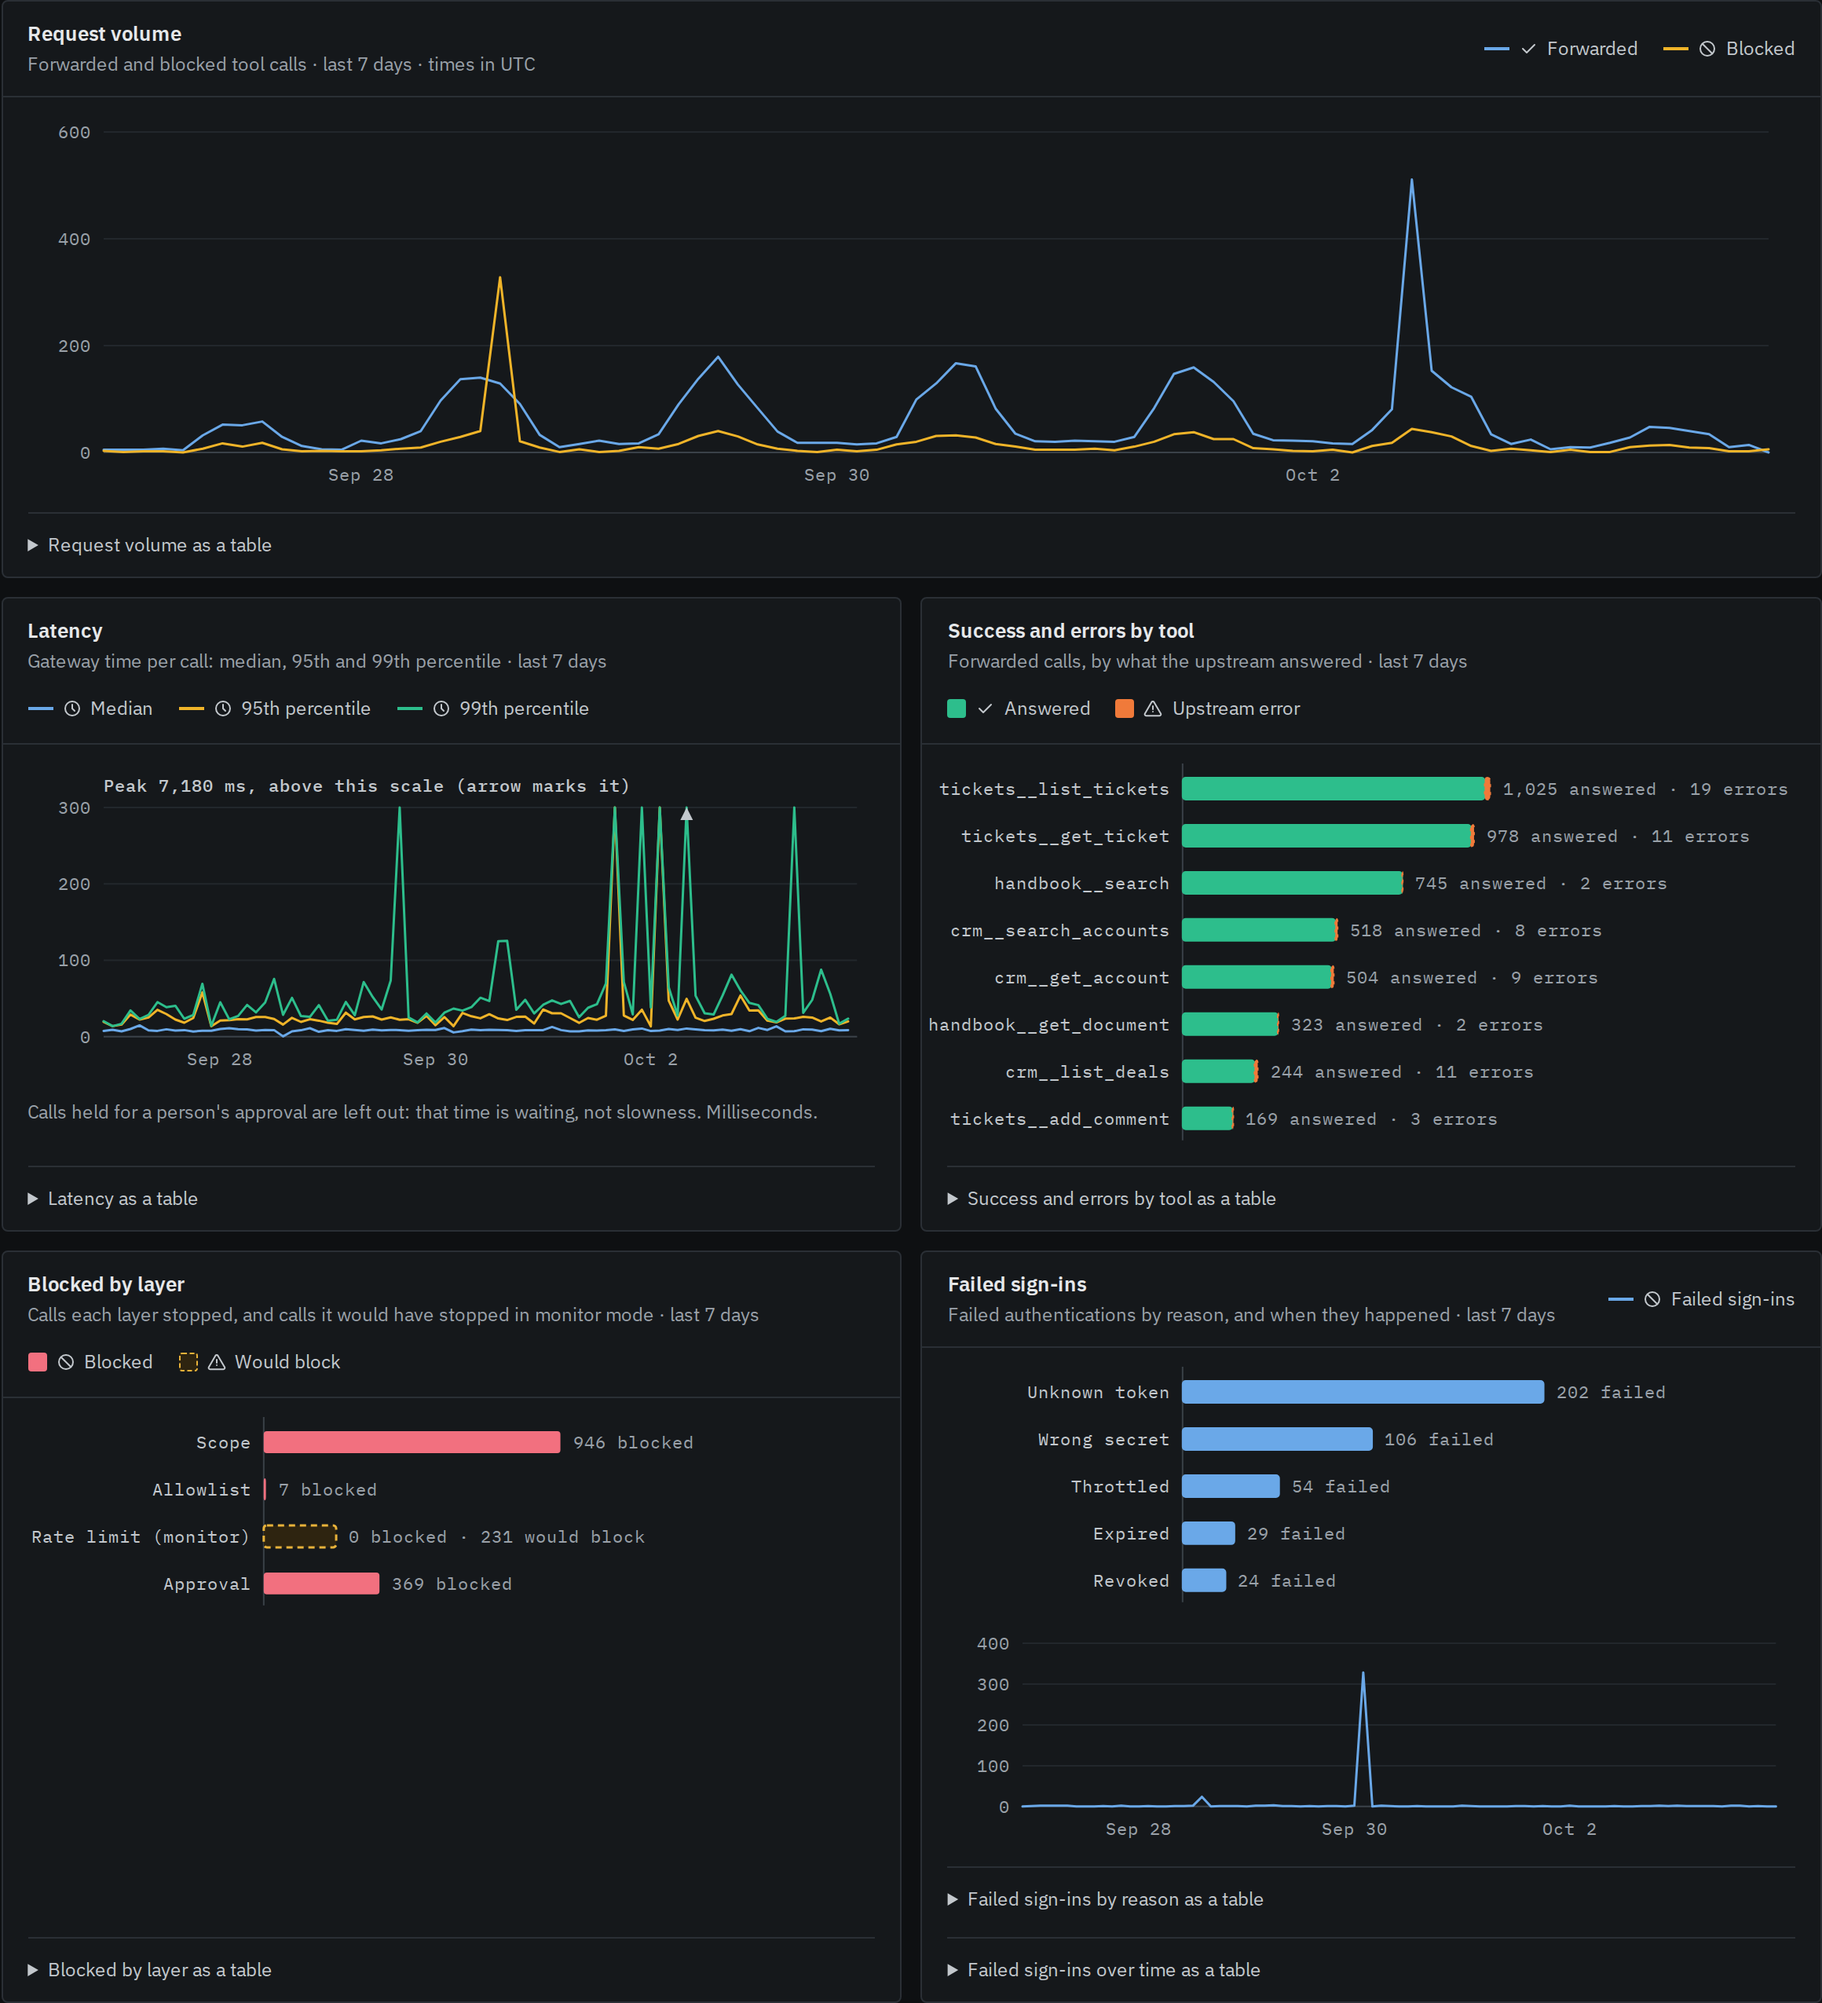
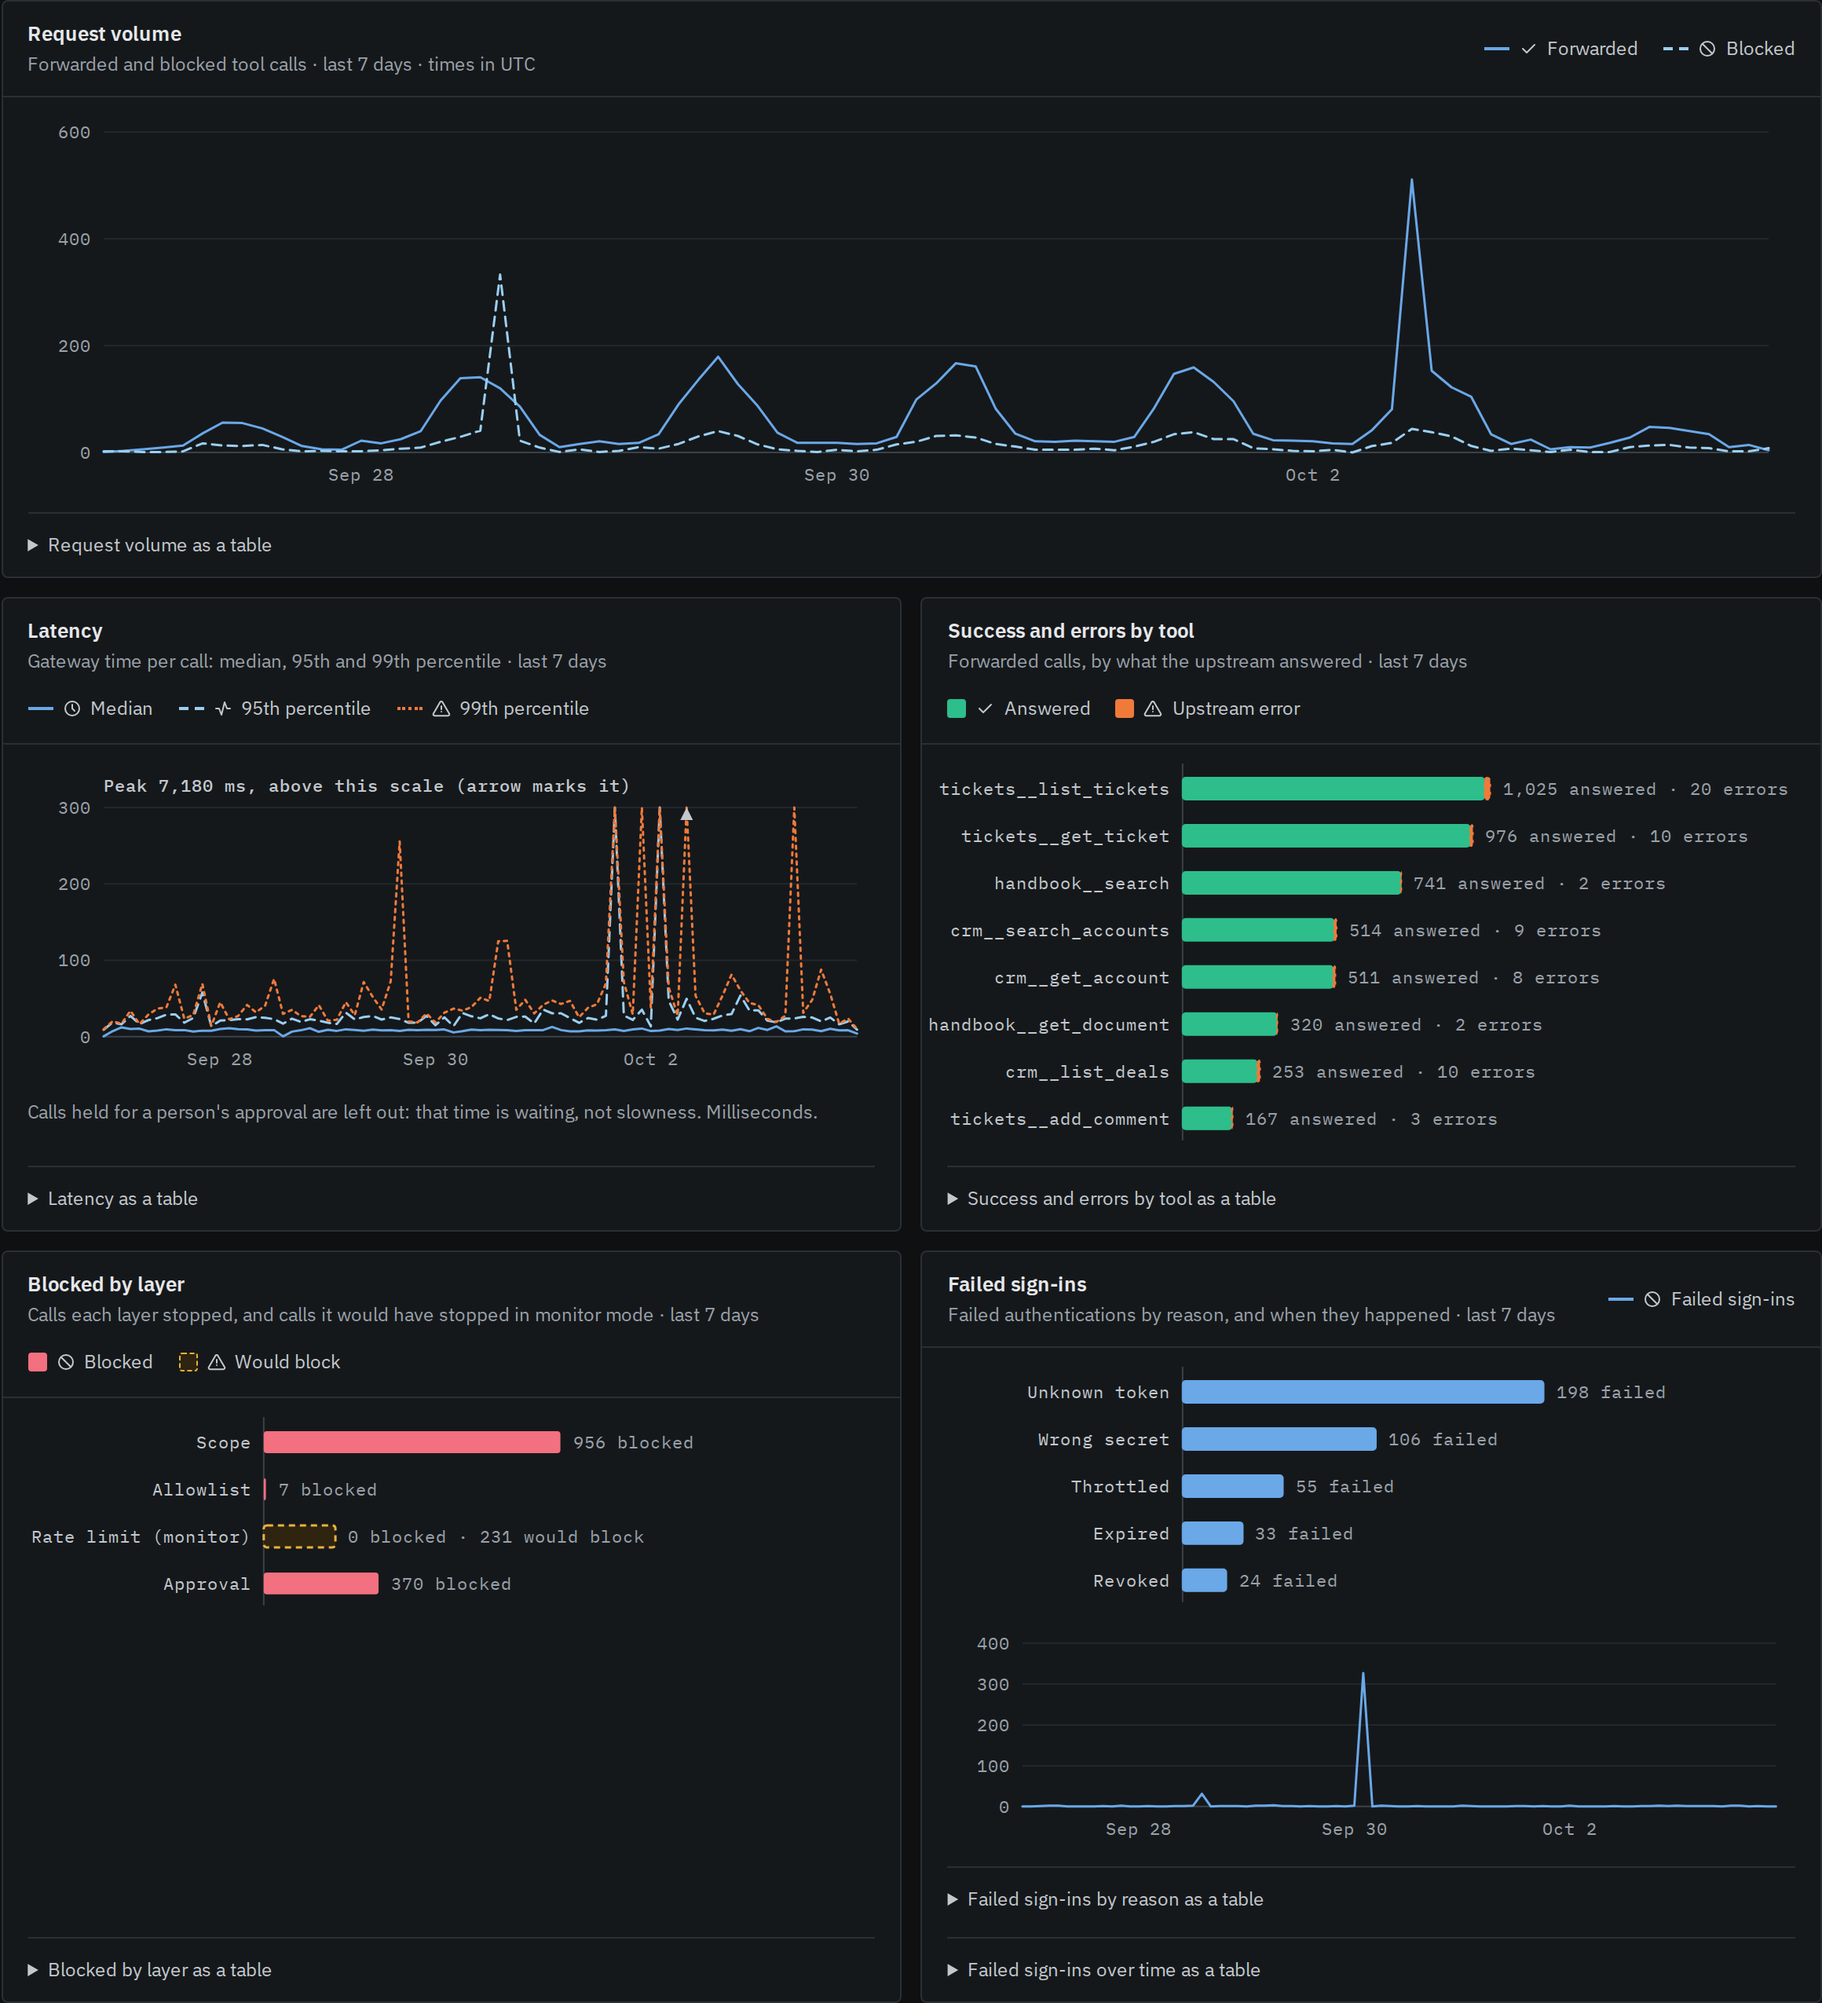
Make the seed's counts independent of the day it is run
The anchor is now the newest 21:57 UTC and the two quiet days are counted back
from it, not taken from the calendar's weekend, so the same seed gives the same
counts and shapes on any day.

diff --git a/scripts/seed_dashboard_demo.py b/scripts/seed_dashboard_demo.py
@@ -7,7 +7,7 @@ Two parts, both safe to read before running:
 
 1. A backfill of about seven days of telemetry (requests, layer verdicts, failed logins, the
    pipeline configuration), written through the telemetry writer role, the way the gateway writes
-   it. It has a daily rhythm (quiet nights, busy afternoons, quiet weekends) and four episodes: a
+   it. It has a daily rhythm (quiet nights, busy afternoons, two quiet days) and four episodes: a
    client probing tools it was not given, a spray of invalid tokens, a burst that a layer in
    monitor mode would have limited, and a slow upstream. Everything is made up (Harborline Supply
    Co. is fictional). The same seed and anchor give the same rows: `build_backfill` is pure and
@@ -142,10 +142,25 @@ def _poisson(rng: random.Random, lam: float) -> int:
         k += 1
 
 
-def profile(hour: float, weekday: int) -> float:
-    """Load over a day: quiet nights, a morning ramp, an afternoon peak; weekends a third."""
+QUIET_DAYS_BACK = (
+    3,
+    4,
+)  # the two quiet days, counted back from the anchor's day: a made-up weekend
+
+
+def default_anchor(now: datetime) -> datetime:
+    """The newest 21:57 UTC at or before `now`.
+
+    Always the same time of day, and the quiet days are counted from it and not from the calendar,
+    so the same seed gives the same counts and shapes whatever day and hour the seed is run."""
+    anchor = now.astimezone(UTC).replace(hour=21, minute=57, second=0, microsecond=0)
+    return anchor if anchor <= now else anchor - timedelta(days=1)
+
+
+def profile(hour: float, quiet: bool) -> float:
+    """Load over a day: quiet nights, a morning ramp, an afternoon peak; quiet days a third."""
     day = max(0.0, math.sin(math.pi * (hour - 6.0) / 14.0)) ** 1.5 if 6.0 <= hour <= 20.0 else 0.0
-    return (0.12 + 0.88 * day) * (0.35 if weekday >= 5 else 1.0)
+    return (0.12 + 0.88 * day) * (0.35 if quiet else 1.0)
 
 
 def _choose(rng: random.Random, weighted: list[tuple[str, float]]) -> str:
@@ -212,7 +227,8 @@ def build_backfill(
     start = anchor - timedelta(days=days)
     for minute in range(days * 1440):
         moment = start + timedelta(minutes=minute)
-        rate = 1.6 * profile(moment.hour + moment.minute / 60, moment.weekday())
+        quiet = (anchor.date() - moment.date()).days in QUIET_DAYS_BACK
+        rate = 1.6 * profile(moment.hour + moment.minute / 60, quiet)
         calls = _poisson(rng, rate)
         extra: list[str] = []
         if _within(moment, eps["probing"]):
@@ -736,7 +752,7 @@ def main(argv: list[str] | None = None) -> None:
     )
     args = parser.parse_args(argv)
 
-    anchor = datetime.now(UTC).replace(minute=0, second=0, microsecond=0) - timedelta(minutes=3)
+    anchor = default_anchor(datetime.now(UTC))
     backfill = build_backfill(args.seed, anchor, args.days, args.hold_ms)
     print(
         f"backfill (seed {args.seed}, {args.days} days to {anchor:%Y-%m-%d %H:%M} UTC):"

diff --git a/gateway/tests/test_seed_dashboard_demo.py b/gateway/tests/test_seed_dashboard_demo.py
@@ -31,7 +31,7 @@ def _load() -> ModuleType:
 
 
 seed = _load()
-ANCHOR = datetime(2026, 10, 3, 11, 57, tzinfo=UTC)
+ANCHOR = datetime(2026, 10, 3, 21, 57, tzinfo=UTC)
 
 
 @pytest.fixture(scope="module")
@@ -49,22 +49,35 @@ def test_the_same_seed_and_anchor_give_the_same_rows_and_another_seed_does_not(w
     assert seed.summary(week)["tool_calls"] != seed.summary(other)["tool_calls"]
 
 
-def test_the_week_has_a_daily_rhythm_and_a_quiet_weekend(week: Any) -> None:
+def test_the_counts_and_shapes_do_not_depend_on_the_day_the_seed_is_run(week: Any) -> None:
+    # The anchor is the newest 21:57 UTC: another day is the same week moved, so the same numbers.
+    for now in (
+        datetime(2026, 10, 3, 22, 30, tzinfo=UTC),
+        datetime(2026, 10, 9, 3, 5, tzinfo=UTC),  # a different weekday, before that day's 21:57
+        datetime(2026, 11, 17, 21, 57, tzinfo=UTC),
+    ):
+        moved = seed.build_backfill(20261003, seed.default_anchor(now))
+        assert seed.summary(moved) == seed.summary(week)
+        assert seed.default_anchor(now) <= now
+        assert now - seed.default_anchor(now) < timedelta(days=1)
+
+
+def test_the_week_has_a_daily_rhythm_and_two_quiet_days(week: Any) -> None:
     by_hour: Counter[int] = Counter()
     by_day_kind: Counter[str] = Counter()
     for row in week.requests:
         if row["kind"] != "tool_call":
             continue
         by_hour[row["ts"].hour] += 1
-        by_day_kind["weekend" if row["ts"].weekday() >= 5 else "weekday"] += 1
+        back = (ANCHOR.date() - row["ts"].date()).days
+        by_day_kind["quiet" if back in seed.QUIET_DAYS_BACK else "busy"] += 1
 
     night = sum(by_hour[h] for h in (0, 1, 2, 3, 4, 22, 23)) / 7
     afternoon = sum(by_hour[h] for h in (13, 14, 15, 16)) / 4
     assert afternoon > 3 * night
-    days = Counter(
-        (ANCHOR - timedelta(days=7) + timedelta(days=d)).weekday() >= 5 for d in range(7)
-    )
-    assert by_day_kind["weekend"] / max(days[True], 1) < 0.6 * by_day_kind["weekday"] / days[False]
+    quiet_days = len(seed.QUIET_DAYS_BACK)
+    busy_days = 8 - quiet_days  # the week spans the anchor's day and the seven before it
+    assert by_day_kind["quiet"] / quiet_days < 0.6 * by_day_kind["busy"] / busy_days
 
 
 def test_the_four_episodes_are_in_the_data(week: Any) -> None:
